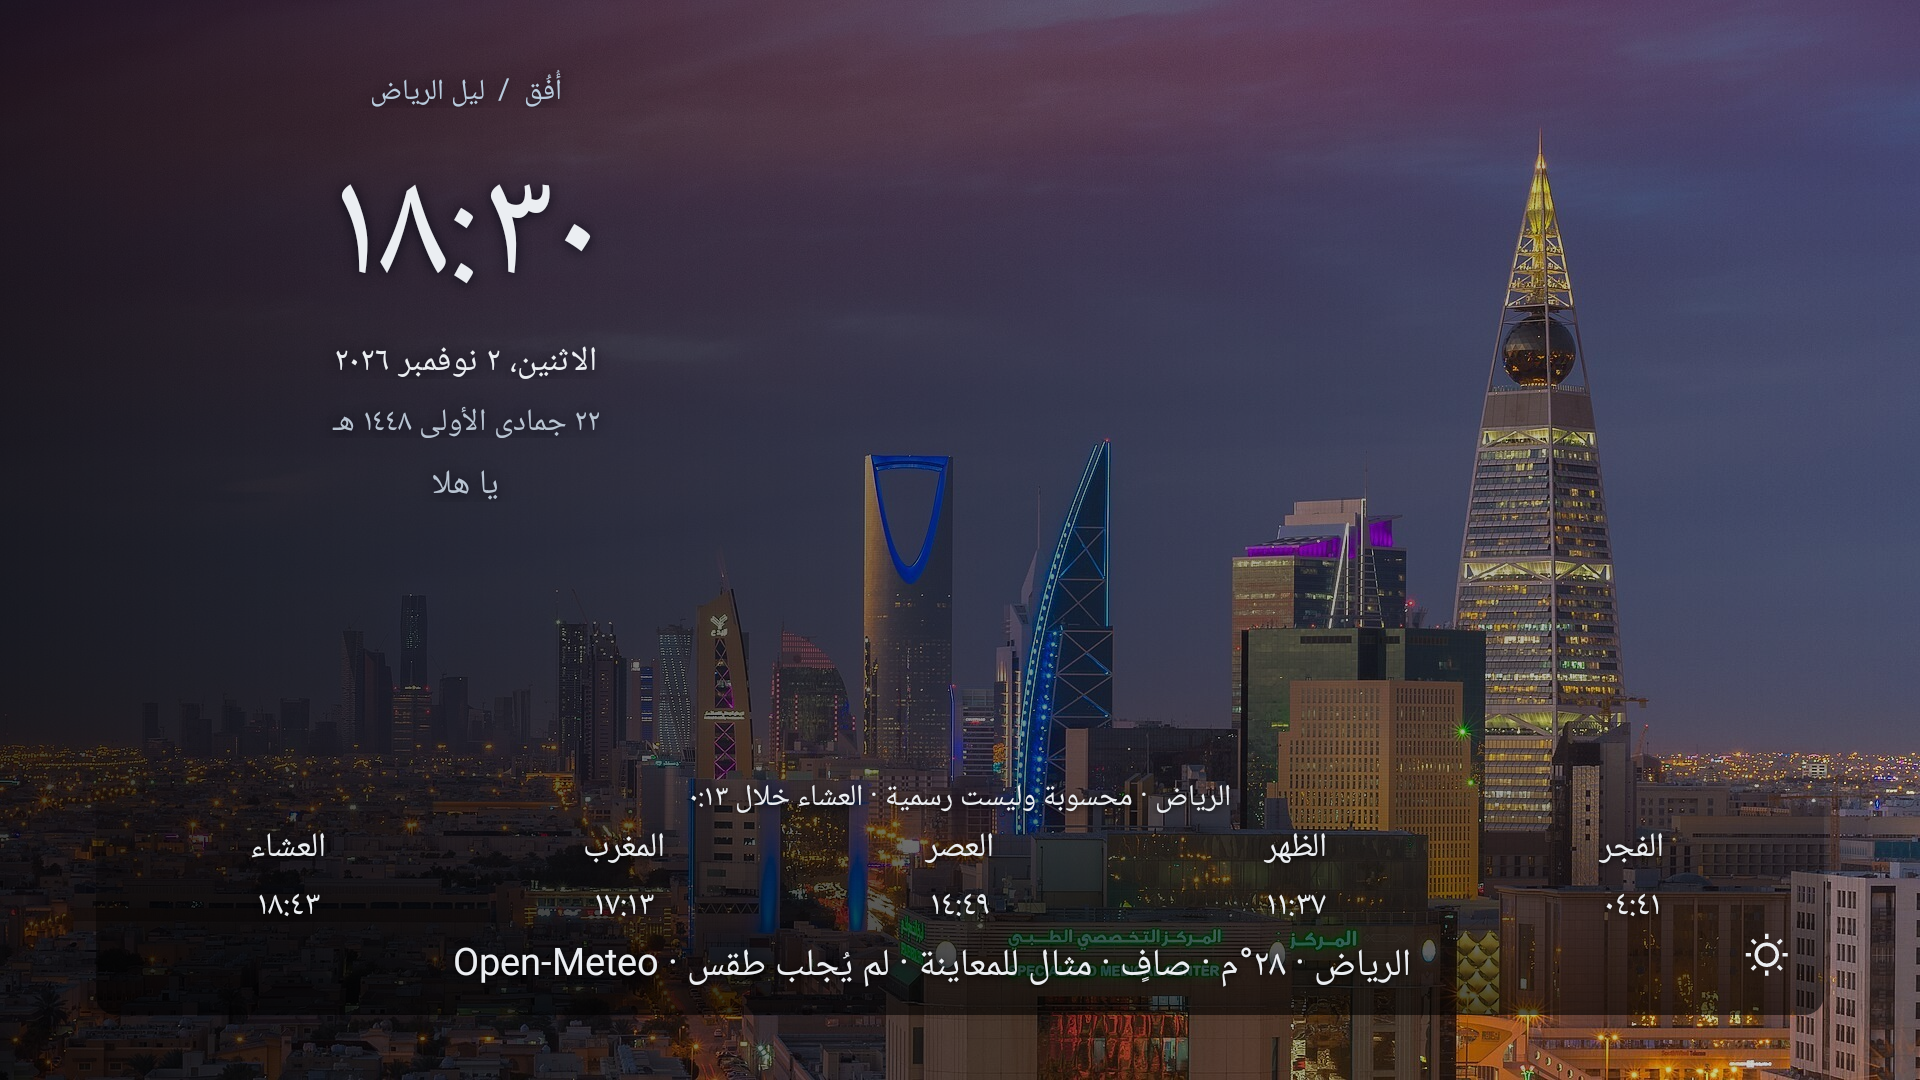
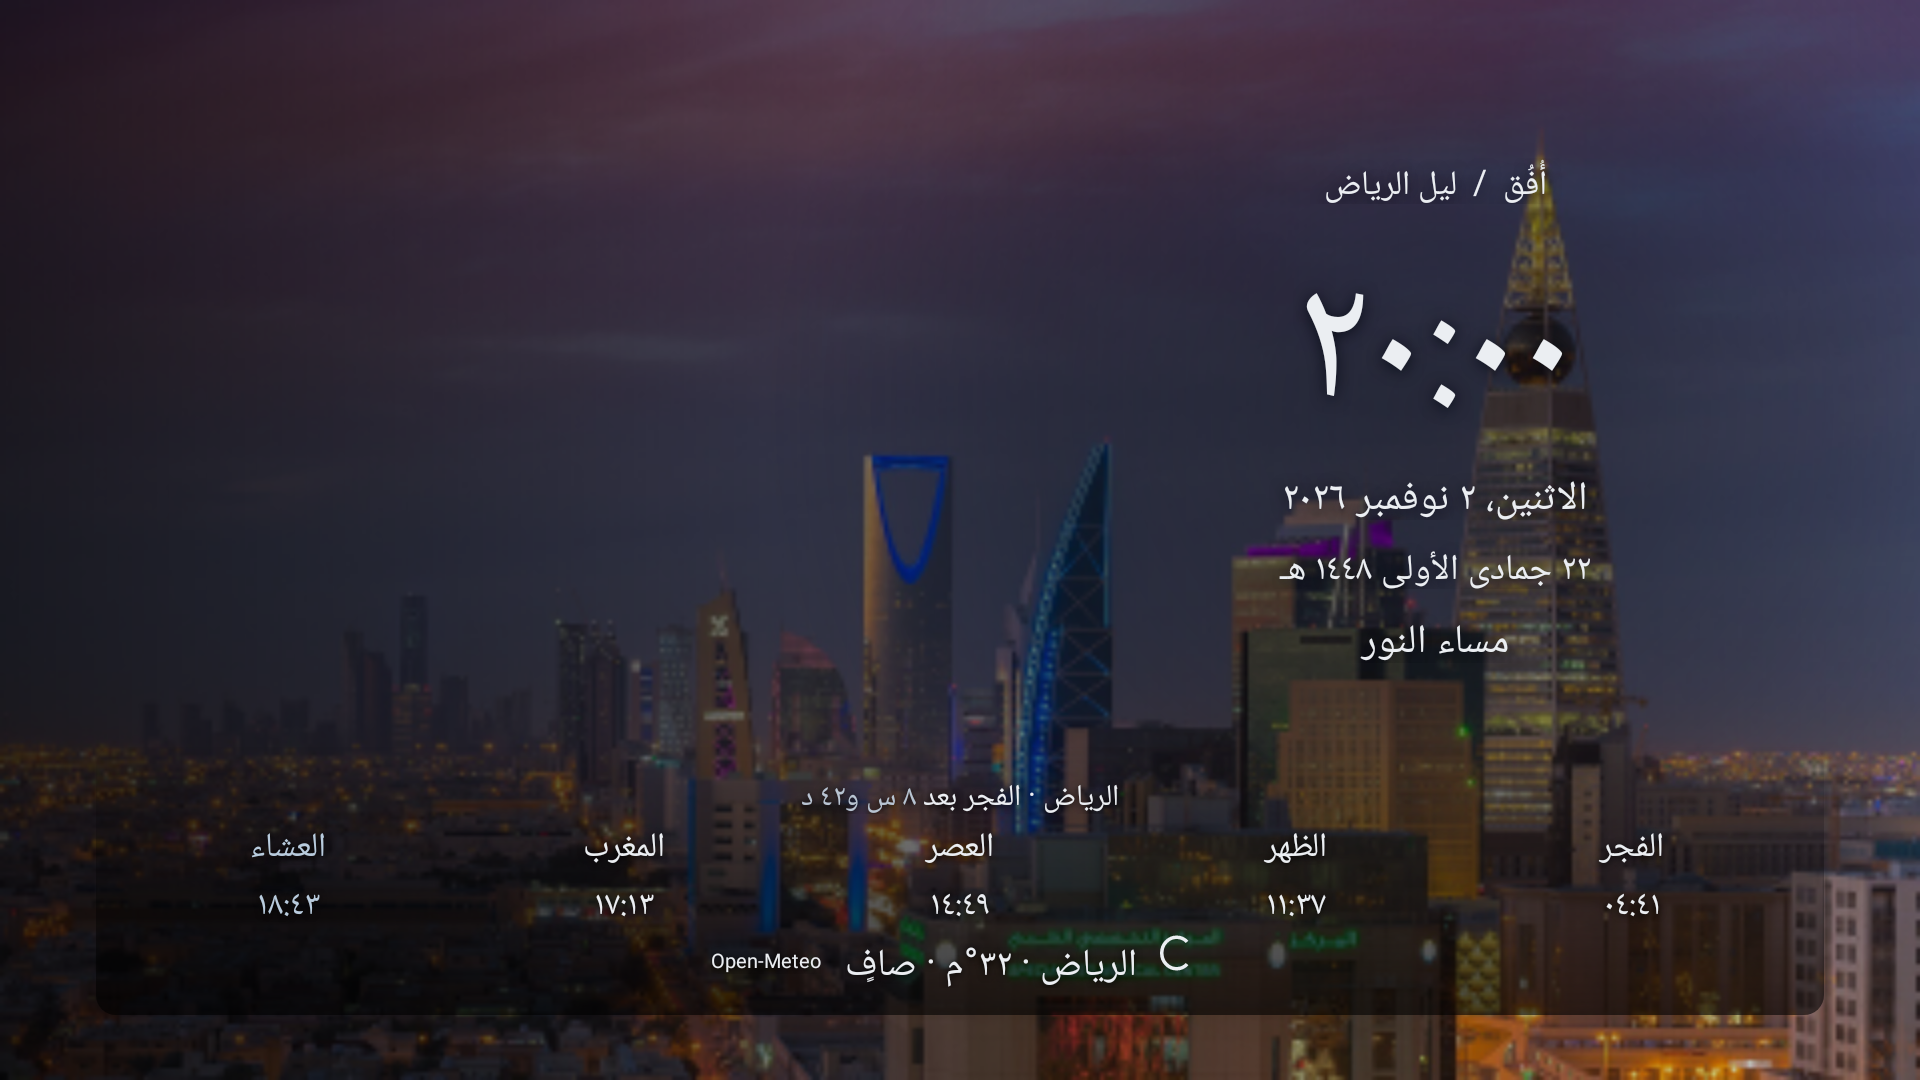
Document clean RC validation and refresh credited bilingual preview gallery

diff --git a/docs/0.9.0/images/CREDITS.md b/docs/0.9.0/images/CREDITS.md
@@ -1,6 +1,6 @@
 # 0.9 host-rendered review gallery
 
-Actual shared-renderer test captures at1920x1080,not physical-TV screenshots. Clock/date/prayer labels are rendered live; weather is explicitly labeled sample data. UI is MIT; photo portions retain their original licenses. Changes: runtime crop/resize/compression plus UI composition. No synthetic footage.
+Actual shared-renderer test captures at1920x1080,not physical-TV screenshots. Clock/date/prayer labels are rendered live; widget captures use dated provider-reference fixtures (not current readings); the Studio images show the real live renderer without fabricated network data. UI is MIT; photo portions retain their original licenses. Changes: runtime crop/resize/compression plus UI composition. No synthetic footage.
 
 ## smart-theme-0.png - Saudi Green / Diriyah
 
@@ -38,7 +38,7 @@ License: CC BY-SA 4.0 - https://creativecommons.org/licenses/by-sa/4.0
 
 Photo portion retains this license,including share-alike where applicable. No endorsement.
 
-## studio-smart.png - Live Preview Studio / Smart Information
+## studio-smart.png and studio-en.png - Live Preview Studio / Arabic and English
 
 Creator: Radosław Botev
 

diff --git a/README.md b/README.md
@@ -73,4 +73,4 @@ Prayer times via AlAdhan or an explicitly selected offline calculation; next pra
 
 واجهة عربية وإنجليزية، والأرقام تتبع اللغة تلقائيًا. الصلاة والطقس اختياريان ولا يحتاجان صلاحية الموقع. المواقيت محسوبة ويجب مطابقتها مع جدول مسجدك؛ ليست اعتمادًا رسميًا. الصور مرخّصة، ولا تتضمن النسخة العامة فيديوهات الاختبار الشخصية. كل تغيير في المعاينة يحتاج الحفظ الصريح. النسخة تجريبية وتبقى القيود موضحة في تقرير التحقق.
 
-[Smart Ambient visual review gallery](docs/0.9.0/gallery.html) | [1080p Studio screenshot](docs/0.9.0/images/studio-smart.png) (host-rendered,not a physical-TV test).
+[Smart Ambient visual review gallery](docs/0.9.0/gallery.html) | [Arabic Studio](docs/0.9.0/images/studio-smart.png) · [English Studio](docs/0.9.0/images/studio-en.png) (host-rendered,not a physical-TV test).
